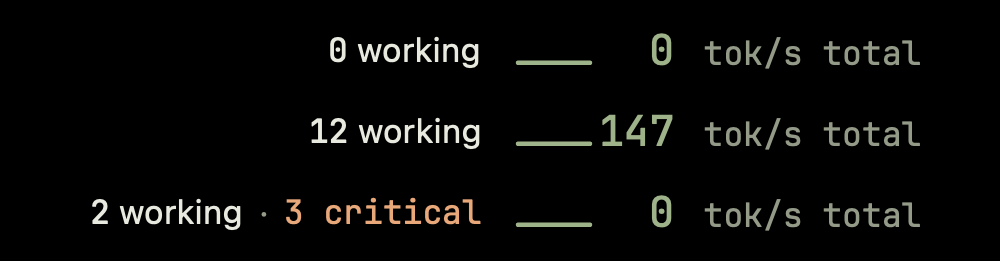
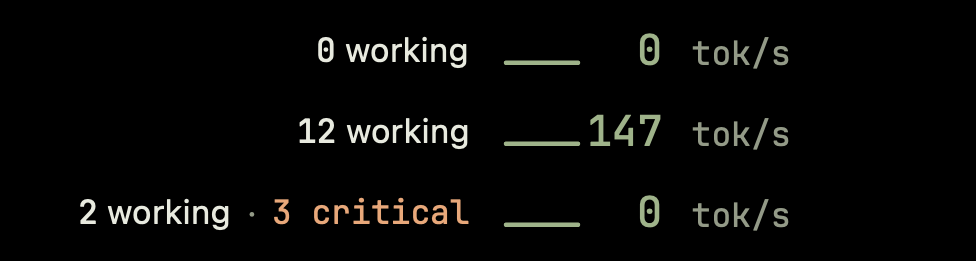
fleet: the notched geometry's width test and renders
- FleetFormatTests: testTheClosedRowOnANotchedDisplayHugsTheCamera pins the 6 pt wing padding and
  the 195 pt camera gap from real renders: the wing is the wider content (94.8) + 6, equal for
  "0 working" and "12 working", and the bar is 396.6 pt against main's 463 pt = 85.7 %. Its message
  records that the follow-up's 75 % would need a 70.1 pt content.
- rowBitmap takes hasHardwareNotch (default false) so the notched tests render that geometry.
- docs/fleet-closed-width-notched.png (the three sample rows at the notched geometry, 1489 x 261 px)
  and the regenerated docs/fleet-closed-width.png plus the row/tool-run/black-hole renders, all
  through the committed preview harnesses (FLEET_CLOSED_NOTCHED_PREVIEW is new).

225 tests, 0 failures; app BUILD SUCCEEDED.

diff --git a/boringNotchTests/FleetFormatTests.swift b/boringNotchTests/FleetFormatTests.swift
@@ -1203,6 +1203,83 @@ final class FleetFormatTests: XCTestCase {
         }
     }
 
+    /// The notched geometry - notch width 185 pt and the camera gap with its 5 pt clearance per side
+    /// (195 pt) - is the owner's MacBook. There each wing gives its content 6 pt, so the bar hugs the
+    /// camera and is narrower than main's, which padded nothing and said "tok/s total".
+    @MainActor
+    func testTheClosedRowOnANotchedDisplayHugsTheCamera() throws {
+        FleetType.registerBundledFonts(in: Bundle(for: FleetFormatTests.self))
+        let theme = FleetTheme(skin: .black)
+        let flat: [Double?] = Array(repeating: 0, count: 60)
+        let zeroReading = try XCTUnwrap(
+            FleetFormat.closedRightReading(speed: FleetSpeed(current: 0, lastAt: nil), jobs: 0))
+        let oneFortySevenReading = try XCTUnwrap(
+            FleetFormat.closedRightReading(speed: FleetSpeed(current: 147, lastAt: nil), jobs: 0))
+
+        let padding = FleetPanelMetrics.closedRowWingPadding(hasHardwareNotch: true)
+        XCTAssertEqual(padding, 6, "a display with a hardware notch gives each wing 6 pt")
+        let gap = FleetPanelMetrics.closedRowGap(notchWidth: 185, hasHardwareNotch: true)
+        XCTAssertEqual(gap, 195, "the 185 pt notch plus 5 pt clearance per side")
+
+        // The notched wing: the speed side's content plus its 6 pt padding. The bitmap has two
+        // wings and two pixels per point.
+        let notchedContent = FleetPanelMetrics.closedSparklineWidth + FleetPanelMetrics.closedSpeedSpacing
+            + FleetPanelMetrics.closedNumberMinWidth + FleetPanelMetrics.closedSpeedSpacing
+            + FleetType.monoWidth(text: " tok/s", size: FleetPanelMetrics.minTextSize)
+        let wing = CGFloat(try rowBitmap(working: 0, alert: nil, reading: zeroReading, blackHole: false,
+                                         gap: 0, hasHardwareNotch: true, trend: flat).pixelsWide) / 4
+        XCTAssertEqual(wing, notchedContent + padding, accuracy: 0.5)
+
+        // The notched bar: two equal wings around the 195 pt camera gap. The working count must
+        // not move the width - the wings stay equal and the gap stays on the centre.
+        let notchedWidth = CGFloat(try rowBitmap(working: 0, alert: nil, reading: zeroReading,
+                                                 blackHole: false, gap: gap,
+                                                 hasHardwareNotch: true, trend: flat).pixelsWide) / 2
+        let busyNotchedWidth = CGFloat(try rowBitmap(working: 12, alert: nil, reading: zeroReading,
+                                                     blackHole: false, gap: gap,
+                                                     hasHardwareNotch: true, trend: flat).pixelsWide) / 2
+        XCTAssertEqual(notchedWidth, busyNotchedWidth, accuracy: 0.5,
+                       "the working count leaves the wings equal")
+        XCTAssertEqual(notchedWidth, 2 * (notchedContent + padding) + gap, accuracy: 1.0,
+                       "the render snaps to the half-point grid")
+
+        // Main's same content at this geometry, from the old rule: a 40 pt sparkline, no
+        // three-digit reserve, the "tok/s total" unit, and wings padded to the old 12 pt rule
+        // capped at the 160 pt text budget, around a gap of the notch plus 5 pt per side.
+        let oldRightContent: CGFloat = 40 + FleetPanelMetrics.closedSpeedSpacing
+            + FleetType.monoWidth(text: "0", size: FleetPanelMetrics.closedSpeedNumberSize, weight: .medium)
+            + FleetPanelMetrics.closedSpeedSpacing
+            + FleetType.monoWidth(text: " tok/s total", size: FleetPanelMetrics.minTextSize)
+        let mainNotchedWidth: CGFloat = 2 * min(FleetPanelMetrics.closedRowTextWidth, oldRightContent) + (185 + 10)
+        XCTAssertLessThan(notchedWidth, mainNotchedWidth,
+                          "the notched bar measures \(notchedWidth) pt against main's \(mainNotchedWidth) pt "
+                            + "(\(notchedWidth / mainNotchedWidth) of it); the 75 % the follow-up asked for is "
+                            + "out of reach at this content: 75 % of main's width would need a 70.1 pt content "
+                            + "while this one measures 94.8 pt (sparkline 24 + three-digit reserve 25.2 + "
+                            + "\" tok/s\" 39.6 + 6 pt of spacing)")
+
+        // Request the notched preview with
+        // `TEST_RUNNER_FLEET_CLOSED_NOTCHED_PREVIEW=/tmp/notched.png xcodebuild test`.
+        if let previewPath = ProcessInfo.processInfo.environment["FLEET_CLOSED_NOTCHED_PREVIEW"] {
+            let notchedGap = FleetPanelMetrics.closedRowGap(notchWidth: 185, hasHardwareNotch: true)
+            let strip = ImageRenderer(content: VStack(spacing: 6) {
+                FleetClosedRowView(working: 0, alert: nil, reading: zeroReading, theme: theme,
+                                   gapWidth: notchedGap, hasHardwareNotch: true, height: closedBarHeight, trend: flat)
+                FleetClosedRowView(working: 12, alert: nil, reading: oneFortySevenReading, theme: theme,
+                                   gapWidth: notchedGap, hasHardwareNotch: true, height: closedBarHeight, trend: flat)
+                FleetClosedRowView(working: 2, alert: "3 critical", reading: zeroReading, theme: theme,
+                                   gapWidth: notchedGap, hasHardwareNotch: true, height: closedBarHeight, trend: flat)
+            }.padding(.horizontal, 14).padding(.vertical, 6).background(Color.black))
+            strip.scale = 3
+            XCTAssertNotNil(strip.nsImage, "The notched preview rendered.")
+            let image = try XCTUnwrap(strip.nsImage)
+            let bitmap = try XCTUnwrap(NSBitmapImageRep(data: try XCTUnwrap(image.tiffRepresentation)))
+            let png = try XCTUnwrap(bitmap.representation(using: .png, properties: [:]))
+            XCTAssertNoThrow(try Data(png).write(to: URL(fileURLWithPath: previewPath)),
+                             "The notched preview wrote.")
+        }
+    }
+
     // Equal wings keep the middle centred even when the working count changes.
     @MainActor
     func testTheClosedRowWingsAreEqualSoTheMiddleStaysCentred() throws {
@@ -1333,12 +1410,13 @@ final class FleetFormatTests: XCTestCase {
     /// The closed row at `closedBarHeight` on black, at scale 2: the frame the closed bar draws in.
     @MainActor
     private func rowBitmap(working: Int, alert: String?, reading: FleetFormat.FleetClosedRightReading?,
-                           blackHole: Bool, gap: CGFloat = 200, trend: [Double?]? = nil) throws -> NSBitmapImageRep {
+                           blackHole: Bool, gap: CGFloat = 200, hasHardwareNotch: Bool = false,
+                           trend: [Double?]? = nil) throws -> NSBitmapImageRep {
         // The rows ask FleetType for the mono face, whose registration is memoised once per process.
         FleetType.registerBundledFonts(in: Bundle(for: FleetFormatTests.self))
         let renderer = ImageRenderer(content: FleetClosedRowView(
             working: working, alert: alert, reading: reading, theme: FleetTheme(skin: .black),
-            gapWidth: gap, height: closedBarHeight, trend: trend,
+            gapWidth: gap, hasHardwareNotch: hasHardwareNotch, height: closedBarHeight, trend: trend,
             blackHole: blackHole ? FleetBlackHoleState(working: working, isVisible: true) : .hidden
         ).background(Color.black))
         renderer.scale = 2
